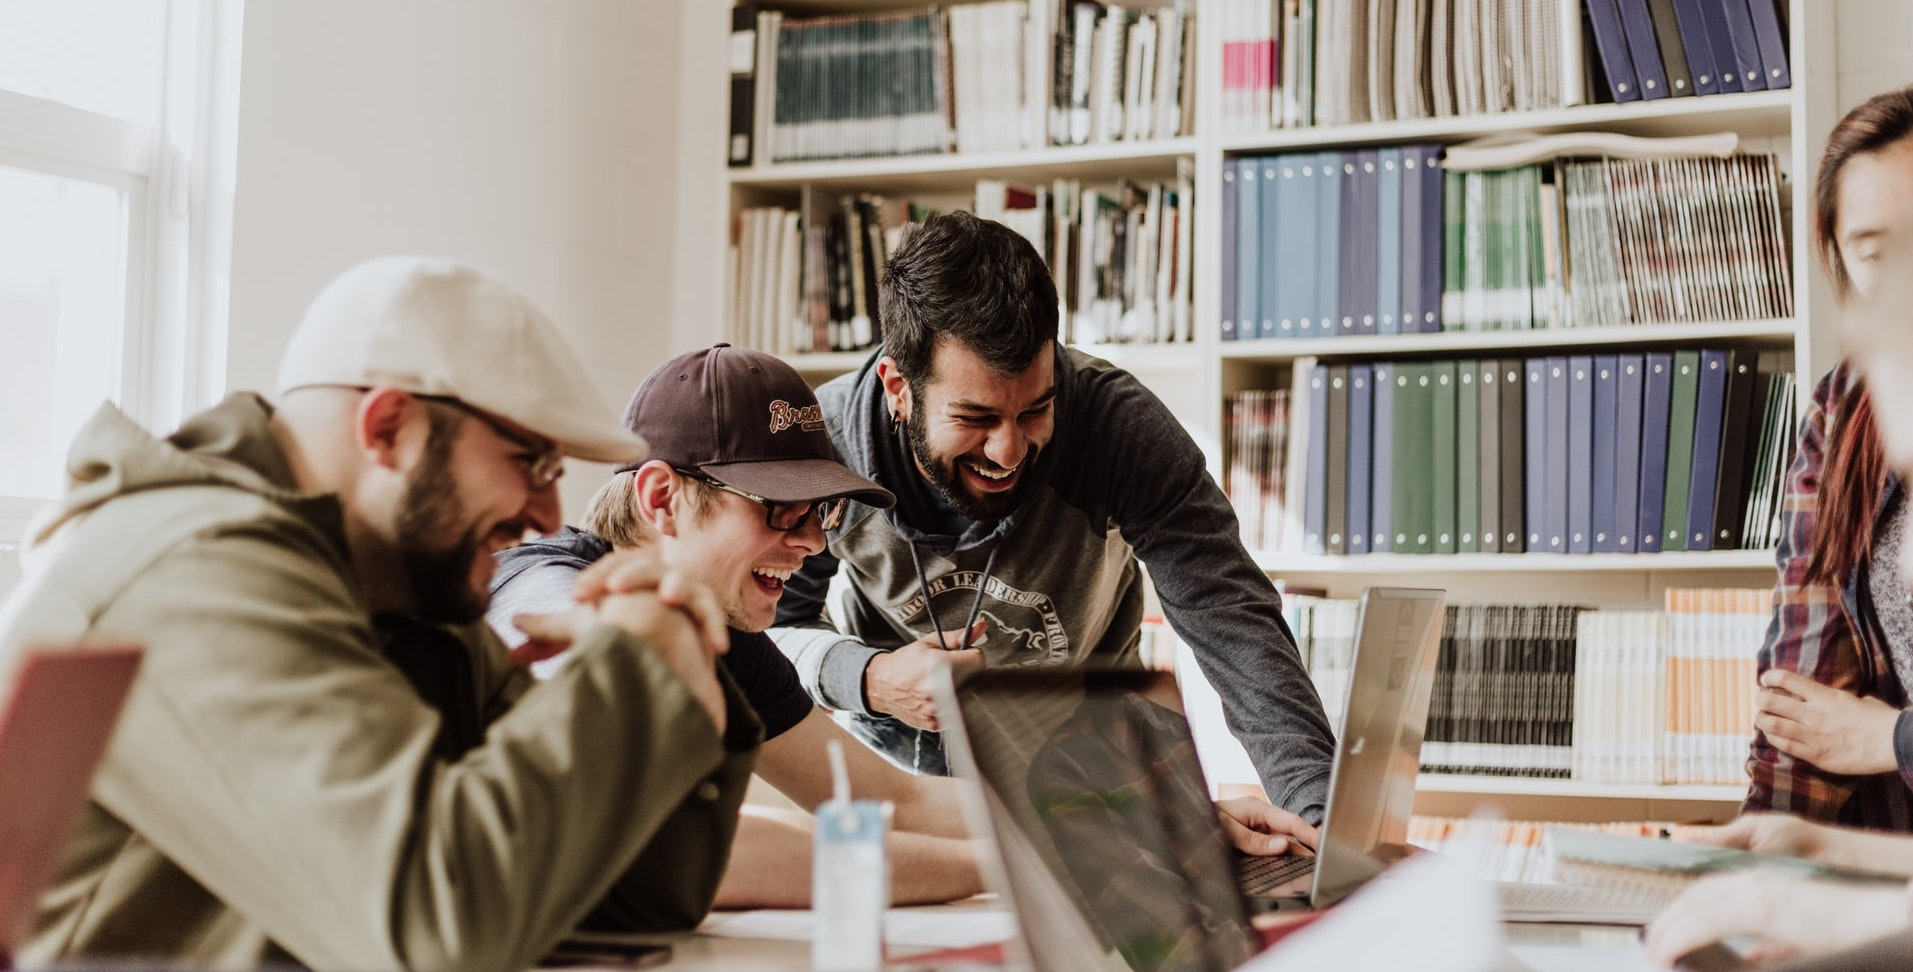
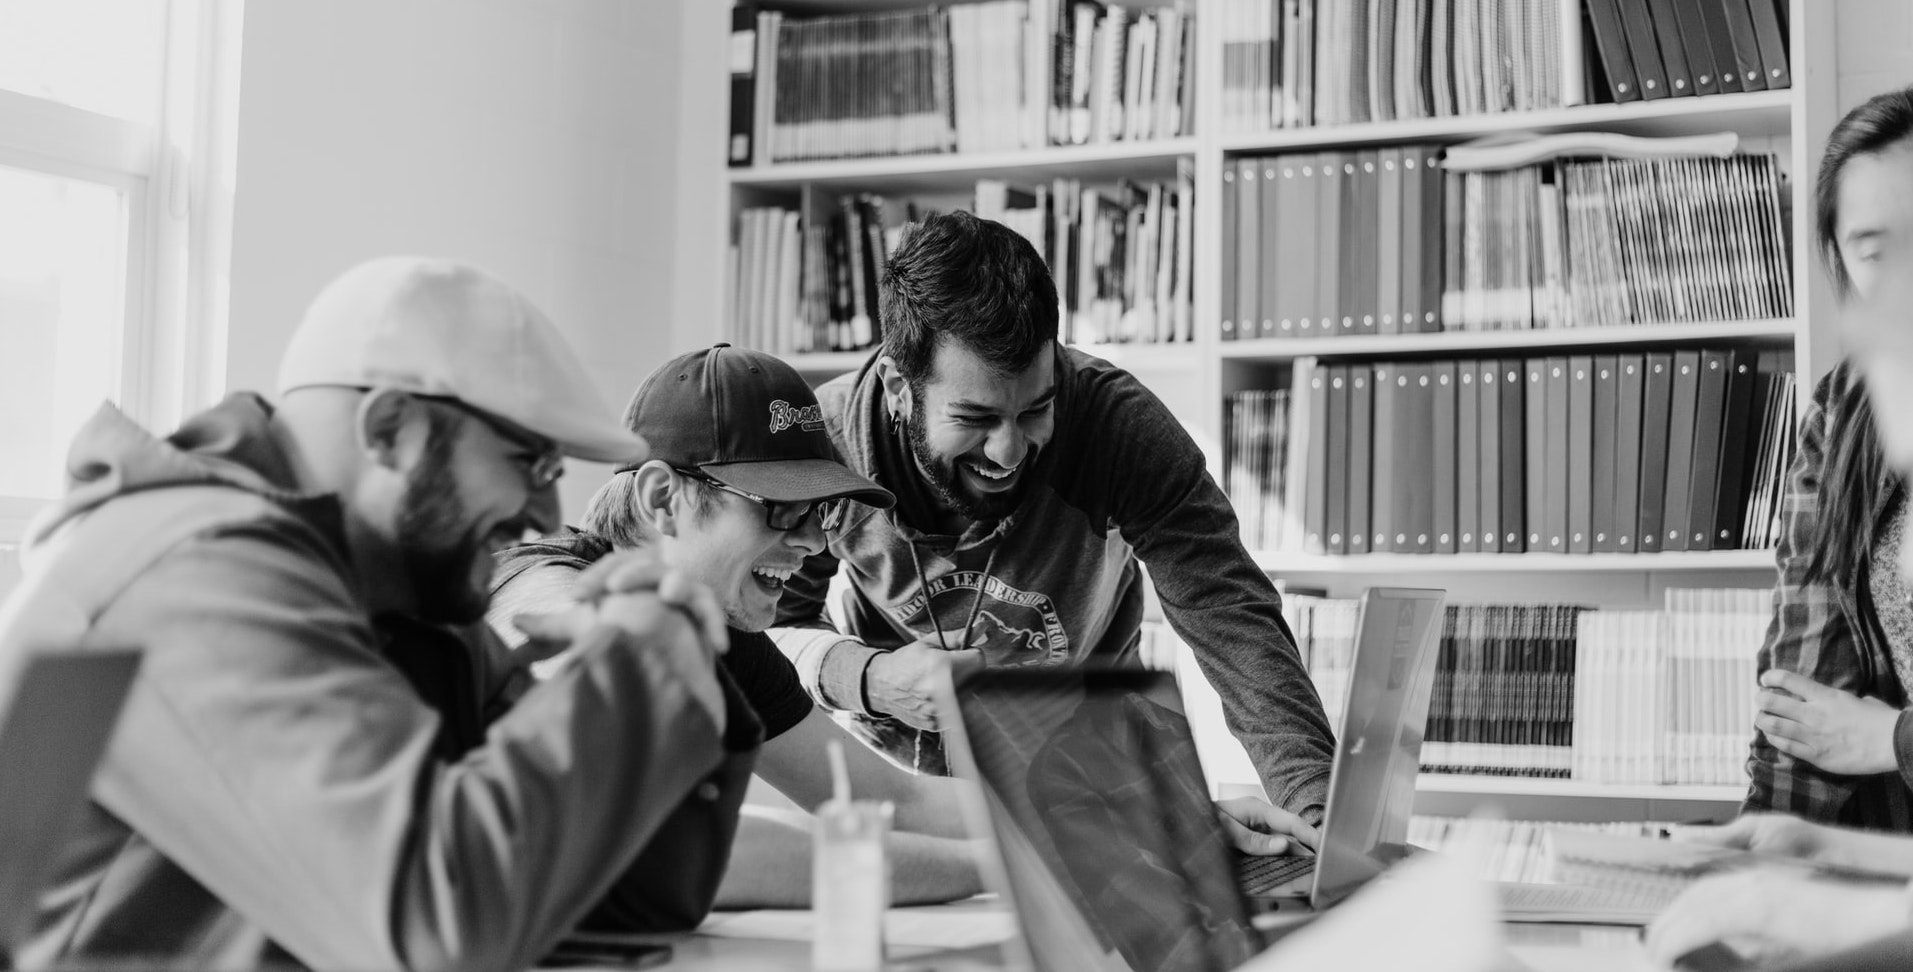
bho

diff --git a/contact.html b/contact.html
@@ -12,11 +12,13 @@ Get in touch."
 	<div class="container">
 		<div class="row justify-content-center align-items-center bg-gray">
 			<div class="col-lg-10">
-				<div class="contact-content pl-lg-5 mb-5 mb-lg-0">
-					<h3 class="mb-4 font-weight-bold">Contact Information</h3>
+				<div class="contact-content pl-lg-5 mb-5 mb-lg-0 text-center text-uppercase">
+
+					<h3 class="mb-4 font-weight-bold">How to find us</h3>
+					<!--
 					<p>Interested in hiring us?
 						Describe what your project is about and we will follow up shortly.
-						You can email hello@amethix.com</p>
+						You can email hello@amethix.com</p> -->
 
 					<div class="row mt-5">
 						<div class="col-lg-4">
@@ -66,9 +68,20 @@ Get in touch."
 		<!-- Map ENd -->
 
 		<div class="row justify-content-center">
-			<div class="col-lg-10 mt-4">
-				<div class="contact-form">
-					<h3 class="mb-4 font-weight-bold">Get In Touch</h3>
+			<!-- <div class="col-lg-10 mt-4"> -->
+				<div class="col-lg-9 col-md-9 col-sm-9">
+
+				<div class="contact-form text-center">
+					<h3 class="mb-4 font-weight-bold text-uppercase">Contact</h3>
+
+					<ul class="list-inline socials-links">
+						{% for social in site.social %}
+						<li class="list-inline-item mb-2">
+							<a target="_blank" href="{{social.link}}" class="active"><i class="{{social.icon}}"></i></a>
+						</li>
+						{% endfor %}
+					</ul>
+
 					<form class="contact__form" method="post" action="{{site.contact_form_action}}">
 						<!-- form message -->
 						<div class="row">
@@ -95,4 +108,4 @@ Get in touch."
 	</div>
 </section>
 
-{% include call_to_action.html %}
+<!-- {% include call_to_action.html %} -->

diff --git a/_includes/page_header_static.html b/_includes/page_header_static.html
@@ -1,11 +1,14 @@
-<section class="page-title header-padding overlay-staticXX" style="
+<section class="page-title header-padding overlay-static" style="
 
 /* background: linear-gradient(0deg, rgba(43, 19, 66, 0.5),  rgba(0, 0, 0, 0.7)),
 url({% if page.header_image %}{{page.header_image}} {% else %} {{site.cover_image}} {% endif %}) 0 0 no-repeat fixed; */
 
-background: radial-gradient(circle, rgb(206, 206, 206, 0.3) 0%,  rgba(95, 94, 94, 0.3) 30%, rgb(25, 25, 26) 100% ),
+background: radial-gradient(circle, rgba(248,0,255,0) 10%, rgba(3,3,41,0.9808123933167017) 100%),
 url({% if page.header_image %}{{page.header_image}} {% else %} {{site.cover_image}} {% endif %}) 0 0 no-repeat fixed;
-
+/* -webkit-filter: grayscale(80%) !important;
+-moz-filter:    grayscale(80%) !important;
+-ms-filter:     grayscale(80%) !important;
+-o-filter:      grayscale(80%) !important; */
 background-size: cover;
 background-repeat: no-repeat;
 overflow: hidden;

diff --git a/assets/scss/_common.scss b/assets/scss/_common.scss
@@ -85,12 +85,13 @@ a:focus {
 }
 
 .overlay-static {
-	outline: 100% solid rgba(255, 0, 0, 0.5) !important;
-    // outline-offset: -100px;
+	// outline: 100% solid rgba(255, 0, 0, 0.5) !important;
+    outline-offset: -100px;
     overflow: hidden;
     position: relative;
 	height: 100%;
-    width: 100%;
+	width: 100%;
+	z-index: -100;
 }
 
 .fullscreen-bg {
@@ -106,7 +107,8 @@ a:focus {
     max-height: 100%;
     overflow: hidden;
 	// z-index: -100;
-	// background-clip: padding-box;
+	background: radial-gradient(circle, rgba(248,0,255,0) 1%, rgba(3,3,41,0.9808123933167017) 100%);
+	z-index: -100;
 }
 
 .fullscreen-bg__video {
@@ -115,4 +117,6 @@ a:focus {
 	left: 0;
 	// background-size: 100% auto;
 	width: 100%;
+	background: radial-gradient(circle, rgba(248,0,255,0) 1%, rgba(3,3,41,0.9808123933167017) 100%);
+	z-index: -100;
 }

diff --git a/assets/scss/_variables.scss b/assets/scss/_variables.scss
@@ -1,9 +1,9 @@
 // Color Variables
 $white: #fff;
 $black: #000;
-$primary-color:#f57479;
+$primary-color:#8a8a8a;  //
 $secondary-color:#1f1f40;
-$extra-color:#934ae4;
+$extra-color:#5d5b70;
 $border-color: #e5e5e5;
 $black-light:#848485;
 $yello:#ffc429;

diff --git a/assets/scss/templates/_about.scss b/assets/scss/templates/_about.scss
@@ -103,8 +103,9 @@
 }
 
 .text-lg{
-	font-size: 50px;
+	font-size: 60px;
 	line-height: 65px;
+	font-weight: bold;
 }
 
 .about-banner{
@@ -115,7 +116,7 @@
 			color: $black-light;
 			border: 1px solid rgba(0,0,0,0.08);
 		}
-		
+
 	}
 }
 
